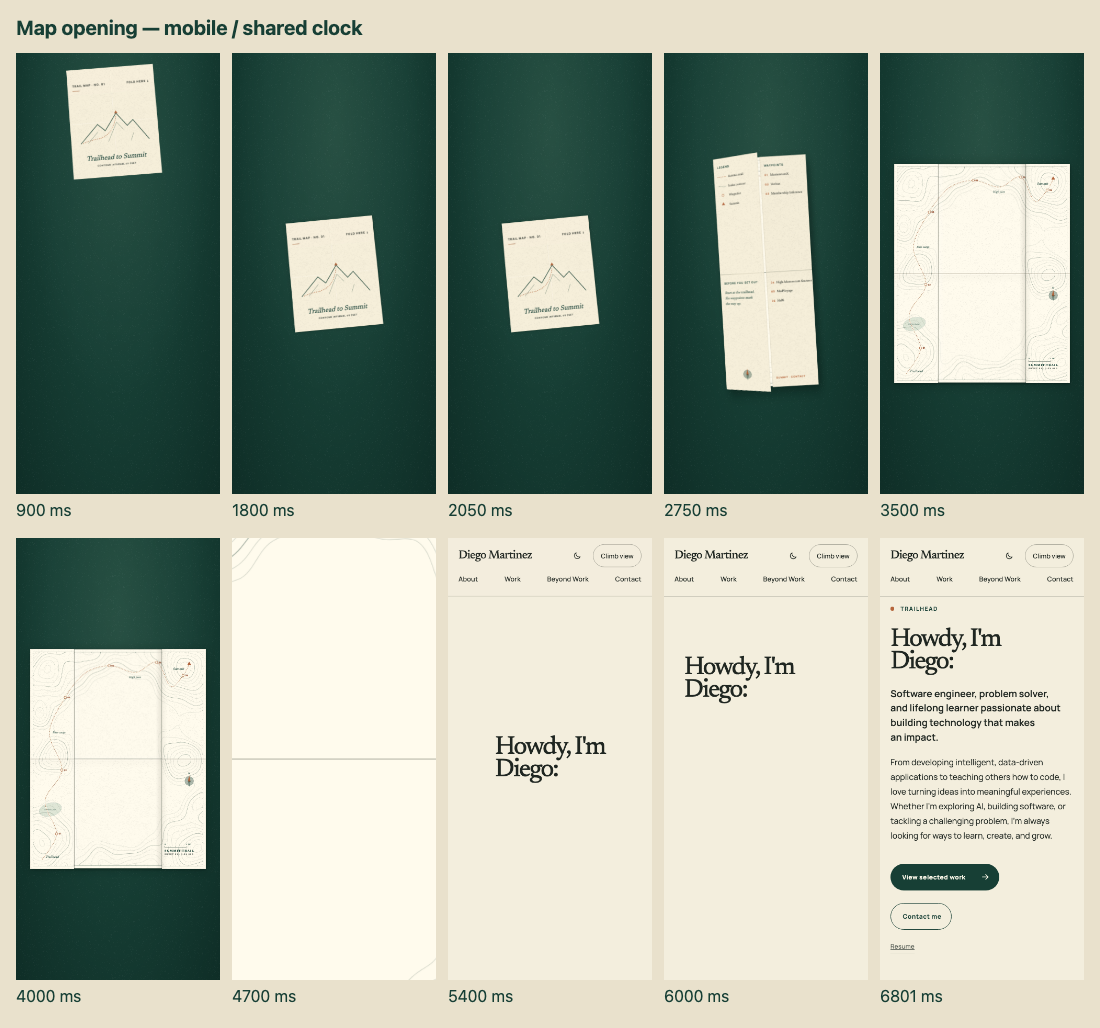
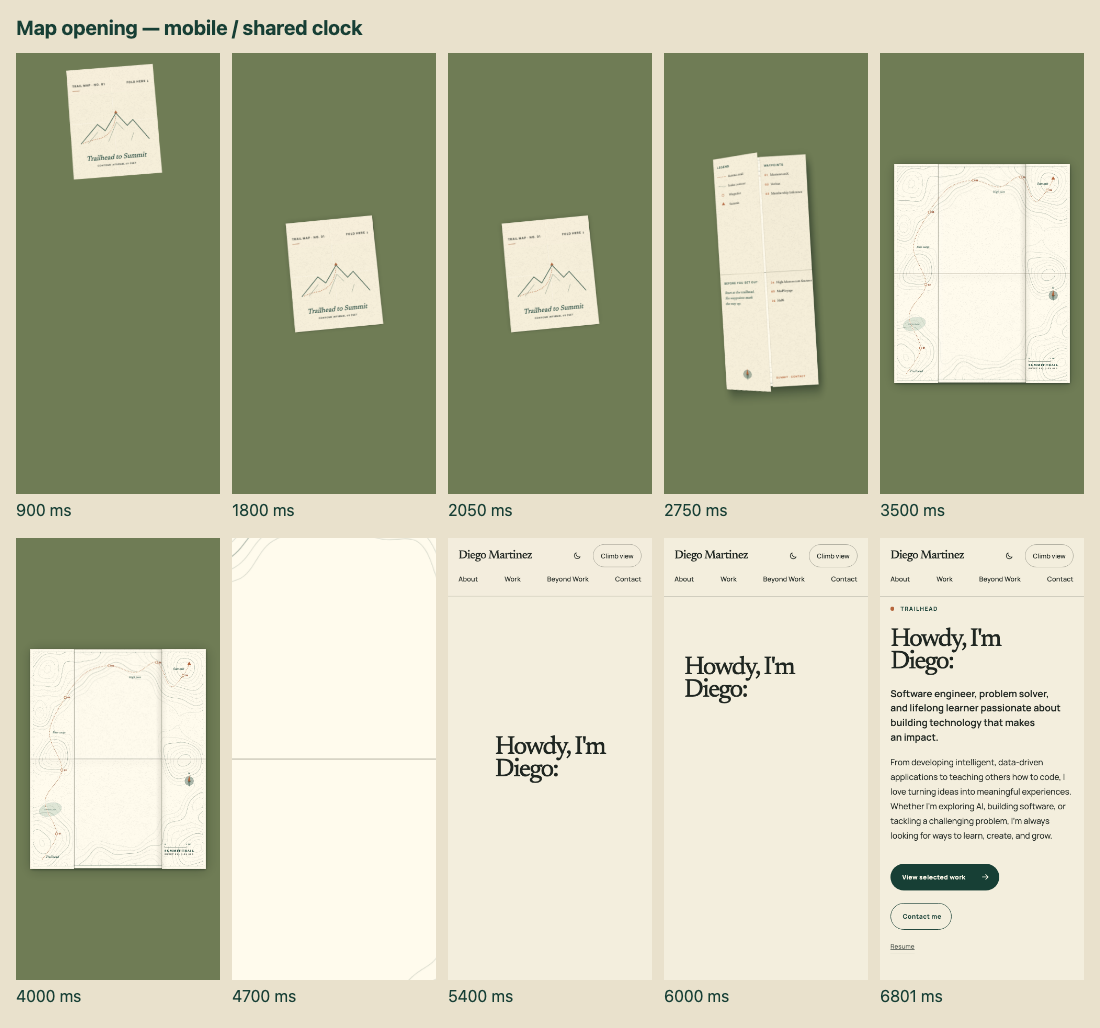
Match map transition ground to the Climb meadow

diff --git a/components/splash/splash.css b/components/splash/splash.css
@@ -2,7 +2,7 @@
    the controller share timing.json, including the continuous page handoff. */
 
 html[data-splash="active"] .splash { display: block; }
-html[data-theme="light"] .splash { --splash-page-bg: #f3eedd; }
+html[data-theme="light"] .splash { --splash-page-bg: #f3eedd; --splash-ground: #6f7c55; }
 
 .splash {
   --w: min(28vw, 47vh);
@@ -13,6 +13,8 @@ html[data-theme="light"] .splash { --splash-page-bg: #f3eedd; }
   --paper: #fffbed;
   --paper-back: #f6efda;
   --splash-page-bg: #1a211d;
+  /* Climb meadow (#6f7c55) under its 60% #0c1526 moonlight veil. */
+  --splash-ground: #343e39;
 
   --print: var(--print-wide);
   animation: splash-exit var(--splash-duration) linear both;
@@ -47,14 +49,12 @@ html[data-splash-art="loading"] .splash:not(.splash--climb):not(.splash--list) *
 /* ---------- World: table, camera, rig ---------- */
 .splash-world { animation: splash-world-off var(--splash-duration) linear both; inset: 0; position: absolute; }
 .splash-table {
-  background:
-    radial-gradient(ellipse 70% 60% at 50% 44%, rgba(255, 251, 237, 0.06), transparent 70%),
-    radial-gradient(ellipse at 50% 40%, #1b4639 0%, #173f35 48%, #0f2e27 100%);
+  /* Match the Climb's flat meadow paint beneath the camera. */
+  background: var(--splash-ground);
   inset: -45vh 0 0; position: absolute;
   /* The top 35vh sit above the screen at rest; they feather the edge when the view tilts up to the mountain. */
   -webkit-mask-image: linear-gradient(to bottom, transparent, #000 35vh); mask-image: linear-gradient(to bottom, transparent, #000 35vh);
 }
-.splash-table::after { background: var(--grain); background-size: 192px; content: ""; inset: 0; opacity: 0.55; position: absolute; }
 .splash-camera {
   animation: splash-zoom-fallback var(--splash-duration) linear both;
   inset: 0; position: absolute; transform-origin: 50% var(--rig-top);

diff --git a/docs/handoff/map-opening-v2/validation.md b/docs/handoff/map-opening-v2/validation.md
@@ -370,3 +370,19 @@ and WebKit. The initial run passed 44; the affected image-alpha assertions and
 readiness/seek race were corrected, and a single-worker rerun with a larger local
 time budget passed all 14 selected checks, covering all eight prior failures.
 Production static-export builds, typecheck, lint and diff checks pass.
+
+
+## Meadow ground for map transitions
+
+The map's ground uses the Climb meadow color from `mountain/scenery.ts`:
+`#6f7c55` in Light mode. Dark mode uses `#343e39`, the same meadow under the
+bottom of `night.ts`'s 60% `#0c1526` moonlight veil. The fixed pine-green
+vignette and floor grain are removed so the ground matches the scenery's flat
+paint. This shared splash surface covers the opening and both view transitions;
+the paper artwork, creases, shadows, timing and hero reveal are unchanged.
+
+Validation: all 18 selected Chromium/WebKit checks pass for both directions at
+390 px and 1440 px in Light/Dark, plus reduced-motion returns. Production
+static-export builds, typecheck, lint and diff checks pass. Updated opening,
+look-up and look-down contact sheets show the meadow ground; `return-dark.png`
+records the moonlit match. No new animation or rendering dependency is added.
